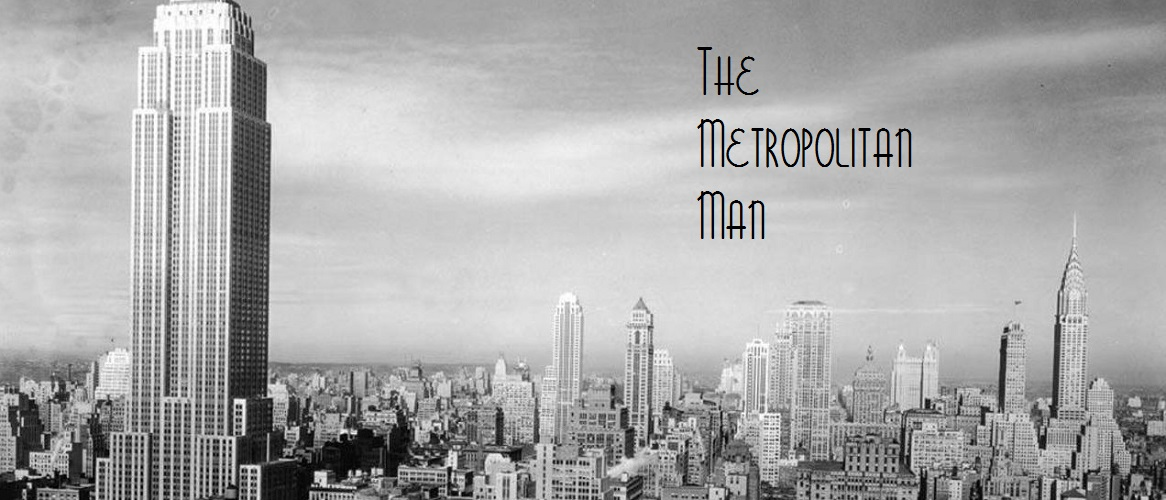
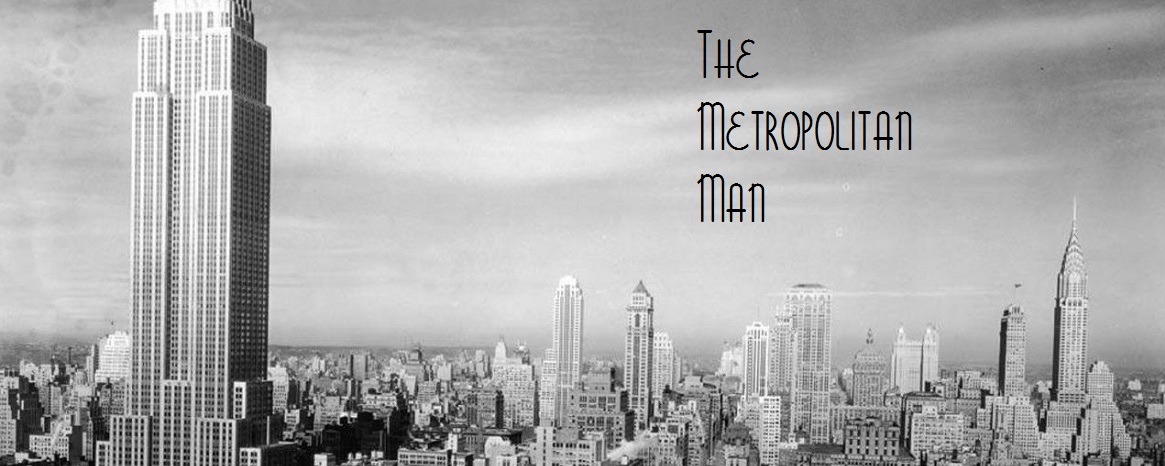
Organize Images
Make all images 5 x 2 ratio, organize, and systematize naming conventions

diff --git a/_site/ambigrams/index.html b/_site/ambigrams/index.html
@@ -108,6 +108,12 @@ ga('send', 'pageview');
             <a class="toggle_link noline"><i class="fa fa-close fa-lg"></i></a>
             
 			<ul>
+
+                <li>
+                    <a href="/">Home</a>
+                </li>
+                
+                
                 
 				<li>
                     <a href="/about">About</a>
@@ -188,7 +194,7 @@ ga('send', 'pageview');
                     <article>
                         
                             
-                                <img class="featimg" src="/img/galleries/ambigrams/LoriAndJohn.png" alt="galleries/ambigrams/LoriAndJohn.png">
+                                <img class="featimg" src="/img/ambigram.png" alt="ambigram.png">
                             
                         
 
@@ -277,7 +283,7 @@ ga('send', 'pageview');
                     <div class="post_nav">
                         
                         
-                        <a class="next" href="/inscrutable/"><span class="short">next </span><span class="long">post </span><i class="fa fa-angle-right"></i></a>
+                        <a class="next" href="/inscrutablity/"><span class="short">next </span><span class="long">post </span><i class="fa fa-angle-right"></i></a>
                         
                     </div>
                 </div>

diff --git a/_site/sampling/index.html b/_site/sampling/index.html
@@ -108,6 +108,12 @@ ga('send', 'pageview');
             <a class="toggle_link noline"><i class="fa fa-close fa-lg"></i></a>
             
 			<ul>
+
+                <li>
+                    <a href="/">Home</a>
+                </li>
+                
+                
                 
 				<li>
                     <a href="/about">About</a>
@@ -206,7 +212,7 @@ ga('send', 'pageview');
                         </div>
                         
                             
-                                <img class="featimg" src="/img/highwayCropped.jpg" alt="highwayCropped.jpg">
+                                <img class="featimg" src="/img/highway.jpg" alt="highway.jpg">
                             
                         
                         <div class="post_content">
@@ -272,6 +278,8 @@ ga('send', 'pageview');
                         
                         <a class="prev" href="/destruction/"><i class="fa fa-angle-left"></i><span class="short"> prev</span><span class="long">ious post</span></a>
                         
+                        
+                        <a class="next" href="/information/"><span class="short">next </span><span class="long">post </span><i class="fa fa-angle-right"></i></a>
                         
                     </div>
                 </div>

diff --git a/_posts/2012-12-22-ambigrams.md b/_posts/2012-12-22-ambigrams.md
@@ -2,7 +2,7 @@
 type: gallery
 title: Ambigrams
 gallery-id: ambigrams
-featimg: galleries/ambigrams/LoriAndJohn.png
+featimg: ambigram.png
 description: ambigrams design svg art rotation
 comments: true
 date:   2012-12-22 14:41:45 -0500

diff --git a/_posts/2015-11-14-jabberwocky.md b/_posts/2015-11-14-jabberwocky.md
@@ -1,6 +1,6 @@
 ---
 type: standard
-featimg: JabberwockyCropped.jpg
+featimg: jabberwocky.jpg
 title: Jabber&shy;wocky in Common Words
 homedisplay: featimg
 description: The Jabberwocky Lewis Carroll UpGoer Five Ten Hundred Words xkcd

diff --git a/_posts/2019-09-27-sampling.md b/_posts/2019-09-27-sampling.md
@@ -1,6 +1,6 @@
 ---
 type: standard
-featimg: highwayCropped.jpg
+featimg: highway.jpg
 title: Sampling Bias
 homedisplay: featimg
 description: Cognitive Biases
